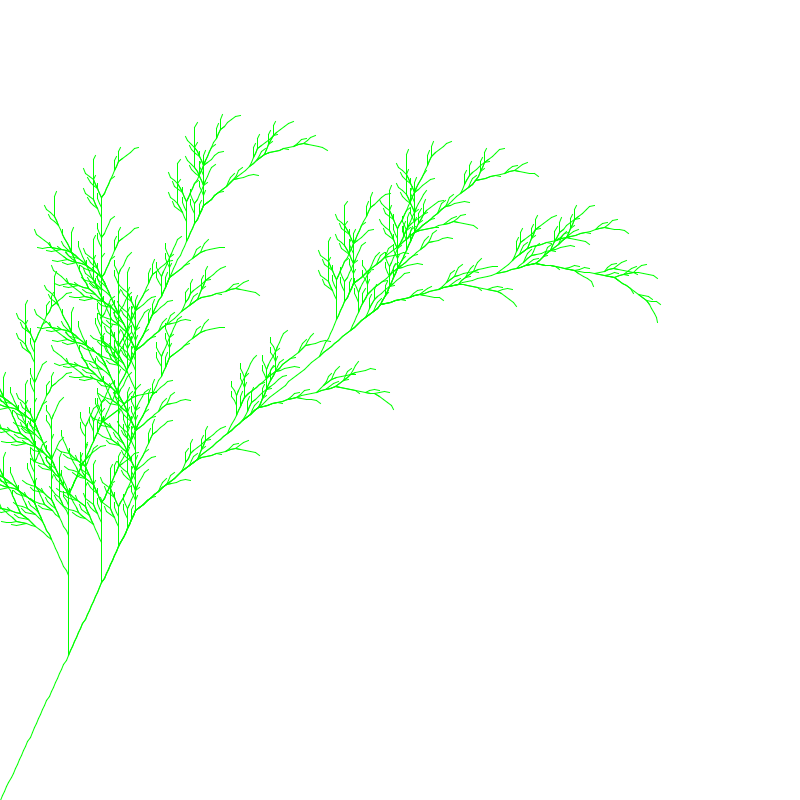
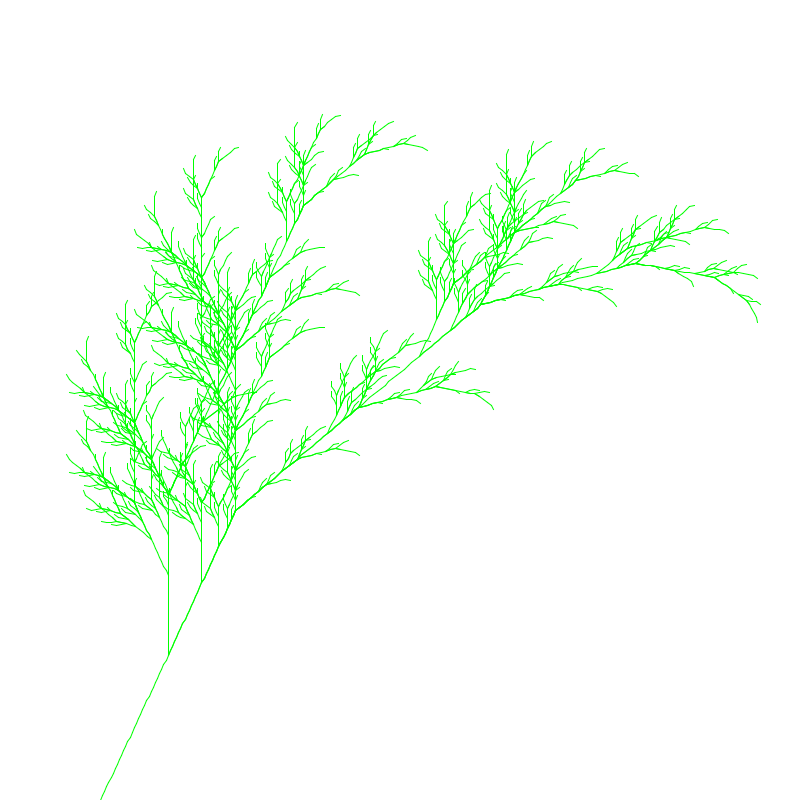
aa

Changed region(s): [[0.0, 0.1562, 0.9375, 0.7188], [0.0938, 0.1875, 0.1562, 0.25]]

diff --git a/src/test/java/test/puzzle/graphics/TestImageTurtle.java b/src/test/java/test/puzzle/graphics/TestImageTurtle.java
@@ -228,7 +228,7 @@ class TestImageTurtle {
         try (OutputStream os = new FileOutputStream("data/ImageTurtle/FractalPlant-LSystem.png");
             ImageWriter iw = new ImageWriter(os, size, size);
             Turtle t = new ImageTurtle(iw)) {
-            t.position(0, size);
+            t.position(100, size);
             t.step(5);
             t.angle(25);
             t.penColor(Color.GREEN);

diff --git a/src/test/java/test/puzzle/graphics/TestSVGTurtle.java b/src/test/java/test/puzzle/graphics/TestSVGTurtle.java
@@ -219,7 +219,7 @@ class TestSVGTurtle {
         int size = 800;
         try (Writer w = new FileWriter("data/SVGTurtle/FractalPlant-LSystem.svg");
             Turtle t = new SVGTurtle(w, size, size)) {
-            t.position(0, size);
+            t.position(100, size);
             t.step(5);
             t.angle(25);
             t.penColor(Color.GREEN);
